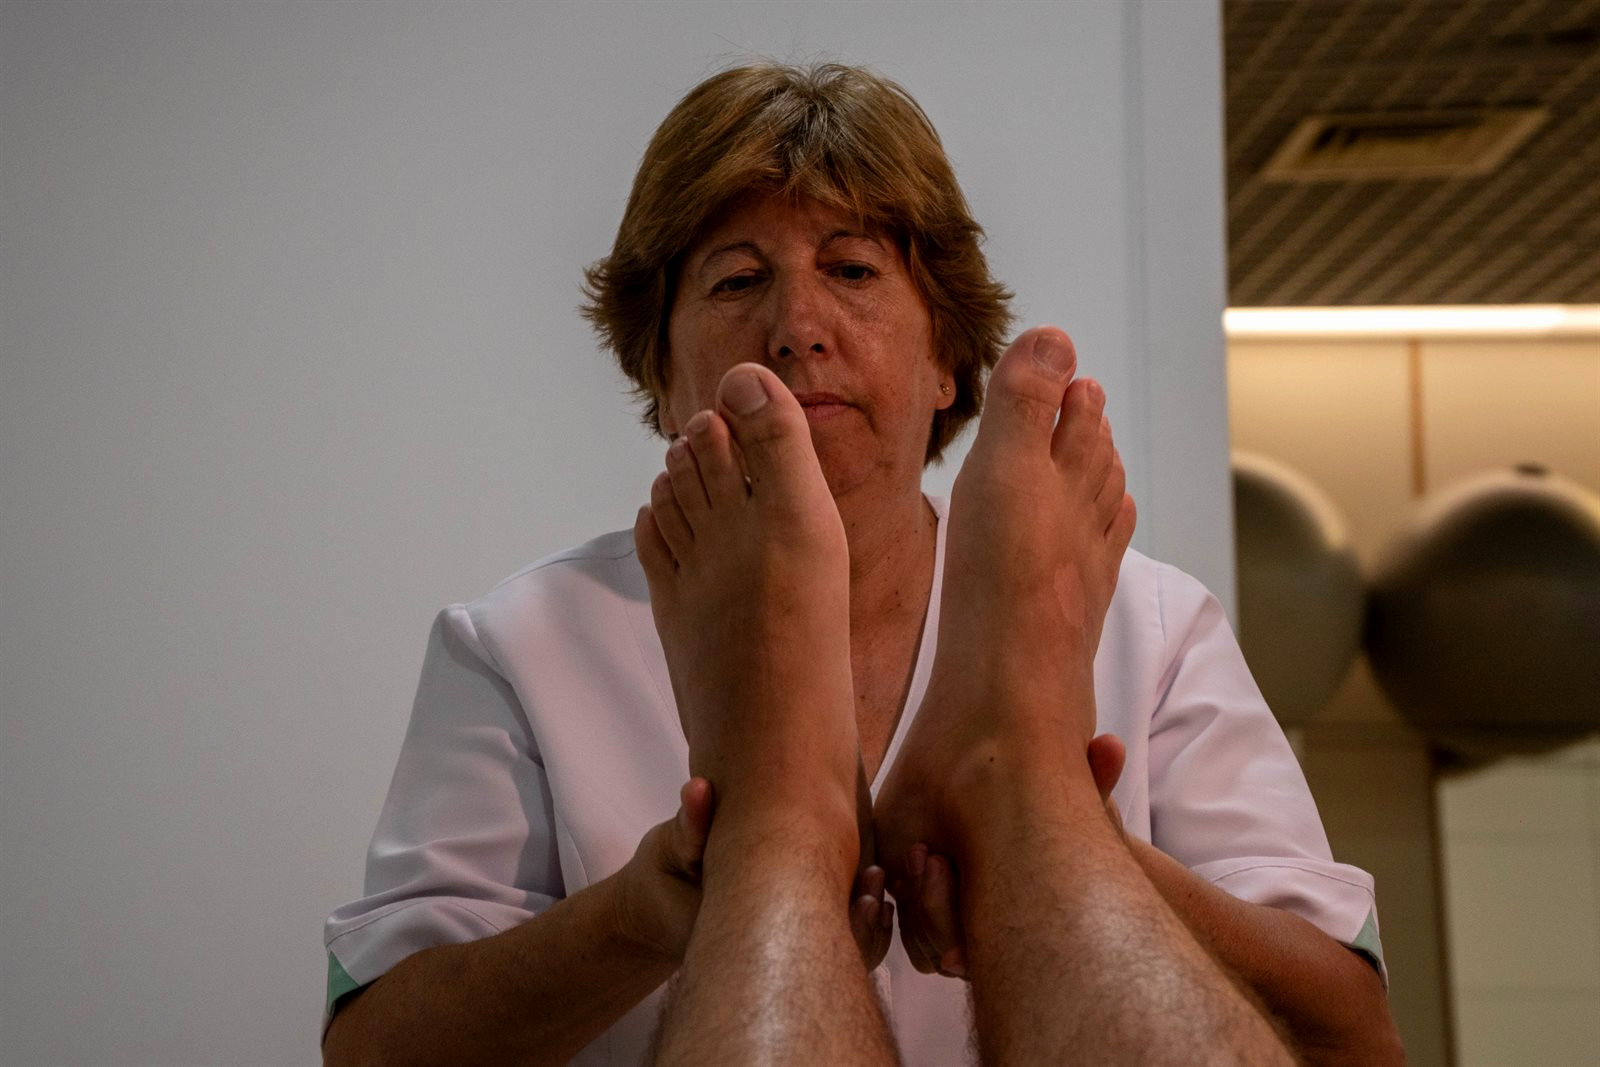
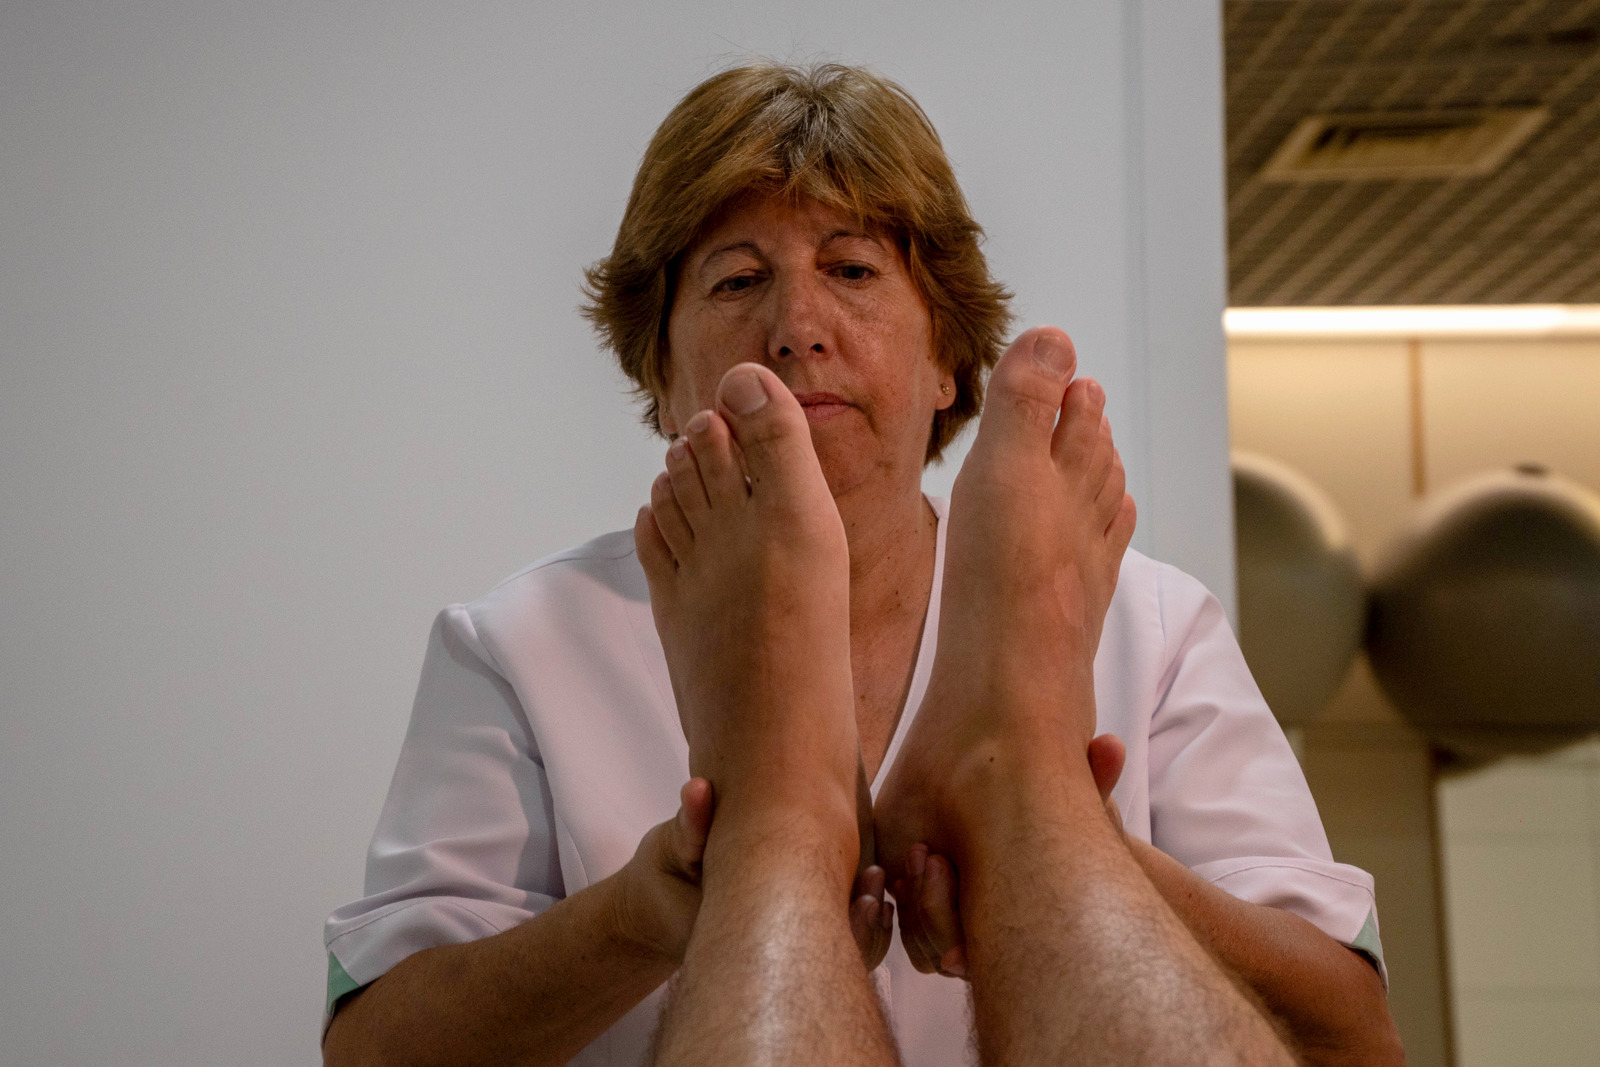
feat(fotos): foto certa da ATM e mais brilho na reflexologia
- ATM: instalada a foto enviada pela cliente (Fisioterapia ATM.jpg). Do
  original 6000x4000 para 1600x1067, como as restantes, com retoque leve de
  brilho (media 115 -> 126). Deixa de estar em placeholder.
- A foto errada que estava na ATM fica parqueada como
  _por-atribuir-homem-mandibula.jpg. Pode ser a da Vestibular, por confirmar
  com a cliente.
- Reflexologia: re-derivada do original da pasta da cliente em vez de empilhar
  outra curva sobre a versao ja editada, para nao acumular artefactos de JPEG.
  Mediana 114 -> 139, sem clipping nos brancos.

Continuam em placeholder a Fisioterapia Pediatrica e a Vestibular, a espera
das fotos certas.

Changed region(s): [[0.4375, 0.0619, 0.5938, 0.2165], [0.5, 0.3711, 0.5312, 0.4021]]

diff --git a/website-clinica-rita-guerreiro/project/src/data.jsx b/website-clinica-rita-guerreiro/project/src/data.jsx
@@ -7,10 +7,10 @@ const IMG = {
   'fisioterapia-manual': '/assets/fotos/servico-fisioterapia-manual.jpg',
   acupuntura: '/assets/fotos/servico-acupuntura.jpg?v=20260715f',
   mesoterapia: '/assets/fotos/servico-mesoterapia.jpg?v=20260714c',
-  // A cliente indicou que estas 3 fotos não correspondem ao serviço. Até enviar as
+  // Foto certa enviada pela cliente ("Fotos clinica Rita Guerreiro/Fisioterapia ATM.jpg").
+  'fisioterapia-atm': '/assets/fotos/servico-fisioterapia-atm.jpg?v=20260715h',
+  // A cliente indicou que estas 2 fotos não correspondem ao serviço. Até enviar as
   // certas ficam a null — o <Photo> cai no placeholder da marca (ui.jsx).
-  // Os ficheiros errados continuam em assets/fotos/ mas não são usados.
-  'fisioterapia-atm': null,
   'fisioterapia-pediatrica': null,
   'fisioterapia-vestibular': null,
   'fisioterapia-oncologica': '/assets/fotos/servico-fisioterapia-oncologica.jpg?v=20260714c',
@@ -27,7 +27,7 @@ const IMG = {
   'massagem-sacro-craniana': '/assets/fotos/servico-massagem-sacro-craniana.jpg',
   'massagem-terapeutica': '/assets/fotos/servico-massagem-terapeutica.jpg',
   'massagens-maos': '/assets/fotos/servico-massagens-maos.jpg?v=20260715',
-  reflexologia: '/assets/fotos/servico-reflexologia.jpg?v=20260715f',
+  reflexologia: '/assets/fotos/servico-reflexologia.jpg?v=20260715h',
   shiatsu: '/assets/fotos/servico-shiatsu.jpg?v=20260715f',
   'massagem-indiana': '/assets/fotos/servico-massagem-indiana.jpg',
   'head-spa': '/assets/fotos/servico-head-spa.jpg',

diff --git a/website-clinica-rita-guerreiro/project/contactos.html b/website-clinica-rita-guerreiro/project/contactos.html
@@ -29,7 +29,7 @@
 <script src="https://unpkg.com/@babel/standalone@7.29.0/babel.min.js" integrity="sha384-m08KidiNqLdpJqLq95G/LEi8Qvjl/xUYll3QILypMoQ65QorJ9Lvtp2RXYGBFj1y" crossorigin="anonymous"></script>
 <script type="text/babel" src="/src/tokens.jsx?v=20260715i"></script>
 <script type="text/babel" src="/src/logo.jsx?v=20260713b"></script>
-<script type="text/babel" src="/src/data.jsx?v=20260715g"></script>
+<script type="text/babel" src="/src/data.jsx?v=20260715h"></script>
 <script type="text/babel" src="/src/data_i18n.jsx?v=20260715c"></script>
 <script type="text/babel" src="/src/ui.jsx?v=20260714d"></script>
 <script type="text/babel" src="/src/pages.jsx?v=20260715j"></script>

diff --git a/website-clinica-rita-guerreiro/project/servico-acupuntura.html b/website-clinica-rita-guerreiro/project/servico-acupuntura.html
@@ -29,7 +29,7 @@
 <script src="https://unpkg.com/@babel/standalone@7.29.0/babel.min.js" integrity="sha384-m08KidiNqLdpJqLq95G/LEi8Qvjl/xUYll3QILypMoQ65QorJ9Lvtp2RXYGBFj1y" crossorigin="anonymous"></script>
 <script type="text/babel" src="/src/tokens.jsx?v=20260715i"></script>
 <script type="text/babel" src="/src/logo.jsx?v=20260713b"></script>
-<script type="text/babel" src="/src/data.jsx?v=20260715g"></script>
+<script type="text/babel" src="/src/data.jsx?v=20260715h"></script>
 <script type="text/babel" src="/src/data_i18n.jsx?v=20260715c"></script>
 <script type="text/babel" src="/src/ui.jsx?v=20260714d"></script>
 <script type="text/babel" src="/src/pages.jsx?v=20260715j"></script>

diff --git a/website-clinica-rita-guerreiro/project/servico-depilacao-laser.html b/website-clinica-rita-guerreiro/project/servico-depilacao-laser.html
@@ -29,7 +29,7 @@
 <script src="https://unpkg.com/@babel/standalone@7.29.0/babel.min.js" integrity="sha384-m08KidiNqLdpJqLq95G/LEi8Qvjl/xUYll3QILypMoQ65QorJ9Lvtp2RXYGBFj1y" crossorigin="anonymous"></script>
 <script type="text/babel" src="/src/tokens.jsx?v=20260715i"></script>
 <script type="text/babel" src="/src/logo.jsx?v=20260713b"></script>
-<script type="text/babel" src="/src/data.jsx?v=20260715g"></script>
+<script type="text/babel" src="/src/data.jsx?v=20260715h"></script>
 <script type="text/babel" src="/src/data_i18n.jsx?v=20260715c"></script>
 <script type="text/babel" src="/src/ui.jsx?v=20260714d"></script>
 <script type="text/babel" src="/src/pages.jsx?v=20260715j"></script>

diff --git a/website-clinica-rita-guerreiro/project/servico-drenagem-linfatica.html b/website-clinica-rita-guerreiro/project/servico-drenagem-linfatica.html
@@ -29,7 +29,7 @@
 <script src="https://unpkg.com/@babel/standalone@7.29.0/babel.min.js" integrity="sha384-m08KidiNqLdpJqLq95G/LEi8Qvjl/xUYll3QILypMoQ65QorJ9Lvtp2RXYGBFj1y" crossorigin="anonymous"></script>
 <script type="text/babel" src="/src/tokens.jsx?v=20260715i"></script>
 <script type="text/babel" src="/src/logo.jsx?v=20260713b"></script>
-<script type="text/babel" src="/src/data.jsx?v=20260715g"></script>
+<script type="text/babel" src="/src/data.jsx?v=20260715h"></script>
 <script type="text/babel" src="/src/data_i18n.jsx?v=20260715c"></script>
 <script type="text/babel" src="/src/ui.jsx?v=20260714d"></script>
 <script type="text/babel" src="/src/pages.jsx?v=20260715j"></script>

diff --git a/website-clinica-rita-guerreiro/project/servico-estetica.html b/website-clinica-rita-guerreiro/project/servico-estetica.html
@@ -29,7 +29,7 @@
 <script src="https://unpkg.com/@babel/standalone@7.29.0/babel.min.js" integrity="sha384-m08KidiNqLdpJqLq95G/LEi8Qvjl/xUYll3QILypMoQ65QorJ9Lvtp2RXYGBFj1y" crossorigin="anonymous"></script>
 <script type="text/babel" src="/src/tokens.jsx?v=20260715i"></script>
 <script type="text/babel" src="/src/logo.jsx?v=20260713b"></script>
-<script type="text/babel" src="/src/data.jsx?v=20260715g"></script>
+<script type="text/babel" src="/src/data.jsx?v=20260715h"></script>
 <script type="text/babel" src="/src/data_i18n.jsx?v=20260715c"></script>
 <script type="text/babel" src="/src/ui.jsx?v=20260714d"></script>
 <script type="text/babel" src="/src/pages.jsx?v=20260715j"></script>

diff --git a/website-clinica-rita-guerreiro/project/servico-facial.html b/website-clinica-rita-guerreiro/project/servico-facial.html
@@ -29,7 +29,7 @@
 <script src="https://unpkg.com/@babel/standalone@7.29.0/babel.min.js" integrity="sha384-m08KidiNqLdpJqLq95G/LEi8Qvjl/xUYll3QILypMoQ65QorJ9Lvtp2RXYGBFj1y" crossorigin="anonymous"></script>
 <script type="text/babel" src="/src/tokens.jsx?v=20260715i"></script>
 <script type="text/babel" src="/src/logo.jsx?v=20260713b"></script>
-<script type="text/babel" src="/src/data.jsx?v=20260715g"></script>
+<script type="text/babel" src="/src/data.jsx?v=20260715h"></script>
 <script type="text/babel" src="/src/data_i18n.jsx?v=20260715c"></script>
 <script type="text/babel" src="/src/ui.jsx?v=20260714d"></script>
 <script type="text/babel" src="/src/pages.jsx?v=20260715j"></script>

diff --git a/website-clinica-rita-guerreiro/project/servico-fisioterapia-atm.html b/website-clinica-rita-guerreiro/project/servico-fisioterapia-atm.html
@@ -29,7 +29,7 @@
 <script src="https://unpkg.com/@babel/standalone@7.29.0/babel.min.js" integrity="sha384-m08KidiNqLdpJqLq95G/LEi8Qvjl/xUYll3QILypMoQ65QorJ9Lvtp2RXYGBFj1y" crossorigin="anonymous"></script>
 <script type="text/babel" src="/src/tokens.jsx?v=20260715i"></script>
 <script type="text/babel" src="/src/logo.jsx?v=20260713b"></script>
-<script type="text/babel" src="/src/data.jsx?v=20260715g"></script>
+<script type="text/babel" src="/src/data.jsx?v=20260715h"></script>
 <script type="text/babel" src="/src/data_i18n.jsx?v=20260715c"></script>
 <script type="text/babel" src="/src/ui.jsx?v=20260714d"></script>
 <script type="text/babel" src="/src/pages.jsx?v=20260715j"></script>

diff --git a/website-clinica-rita-guerreiro/project/servico-fisioterapia-geral.html b/website-clinica-rita-guerreiro/project/servico-fisioterapia-geral.html
@@ -29,7 +29,7 @@
 <script src="https://unpkg.com/@babel/standalone@7.29.0/babel.min.js" integrity="sha384-m08KidiNqLdpJqLq95G/LEi8Qvjl/xUYll3QILypMoQ65QorJ9Lvtp2RXYGBFj1y" crossorigin="anonymous"></script>
 <script type="text/babel" src="/src/tokens.jsx?v=20260715i"></script>
 <script type="text/babel" src="/src/logo.jsx?v=20260713b"></script>
-<script type="text/babel" src="/src/data.jsx?v=20260715g"></script>
+<script type="text/babel" src="/src/data.jsx?v=20260715h"></script>
 <script type="text/babel" src="/src/data_i18n.jsx?v=20260715c"></script>
 <script type="text/babel" src="/src/ui.jsx?v=20260714d"></script>
 <script type="text/babel" src="/src/pages.jsx?v=20260715j"></script>

diff --git a/website-clinica-rita-guerreiro/project/servico-fisioterapia-oncologica.html b/website-clinica-rita-guerreiro/project/servico-fisioterapia-oncologica.html
@@ -29,7 +29,7 @@
 <script src="https://unpkg.com/@babel/standalone@7.29.0/babel.min.js" integrity="sha384-m08KidiNqLdpJqLq95G/LEi8Qvjl/xUYll3QILypMoQ65QorJ9Lvtp2RXYGBFj1y" crossorigin="anonymous"></script>
 <script type="text/babel" src="/src/tokens.jsx?v=20260715i"></script>
 <script type="text/babel" src="/src/logo.jsx?v=20260713b"></script>
-<script type="text/babel" src="/src/data.jsx?v=20260715g"></script>
+<script type="text/babel" src="/src/data.jsx?v=20260715h"></script>
 <script type="text/babel" src="/src/data_i18n.jsx?v=20260715c"></script>
 <script type="text/babel" src="/src/ui.jsx?v=20260714d"></script>
 <script type="text/babel" src="/src/pages.jsx?v=20260715j"></script>

diff --git a/website-clinica-rita-guerreiro/project/servico-fisioterapia-pediatrica.html b/website-clinica-rita-guerreiro/project/servico-fisioterapia-pediatrica.html
@@ -29,7 +29,7 @@
 <script src="https://unpkg.com/@babel/standalone@7.29.0/babel.min.js" integrity="sha384-m08KidiNqLdpJqLq95G/LEi8Qvjl/xUYll3QILypMoQ65QorJ9Lvtp2RXYGBFj1y" crossorigin="anonymous"></script>
 <script type="text/babel" src="/src/tokens.jsx?v=20260715i"></script>
 <script type="text/babel" src="/src/logo.jsx?v=20260713b"></script>
-<script type="text/babel" src="/src/data.jsx?v=20260715g"></script>
+<script type="text/babel" src="/src/data.jsx?v=20260715h"></script>
 <script type="text/babel" src="/src/data_i18n.jsx?v=20260715c"></script>
 <script type="text/babel" src="/src/ui.jsx?v=20260714d"></script>
 <script type="text/babel" src="/src/pages.jsx?v=20260715j"></script>

diff --git a/website-clinica-rita-guerreiro/project/servico-fisioterapia-vestibular.html b/website-clinica-rita-guerreiro/project/servico-fisioterapia-vestibular.html
@@ -29,7 +29,7 @@
 <script src="https://unpkg.com/@babel/standalone@7.29.0/babel.min.js" integrity="sha384-m08KidiNqLdpJqLq95G/LEi8Qvjl/xUYll3QILypMoQ65QorJ9Lvtp2RXYGBFj1y" crossorigin="anonymous"></script>
 <script type="text/babel" src="/src/tokens.jsx?v=20260715i"></script>
 <script type="text/babel" src="/src/logo.jsx?v=20260713b"></script>
-<script type="text/babel" src="/src/data.jsx?v=20260715g"></script>
+<script type="text/babel" src="/src/data.jsx?v=20260715h"></script>
 <script type="text/babel" src="/src/data_i18n.jsx?v=20260715c"></script>
 <script type="text/babel" src="/src/ui.jsx?v=20260714d"></script>
 <script type="text/babel" src="/src/pages.jsx?v=20260715j"></script>
